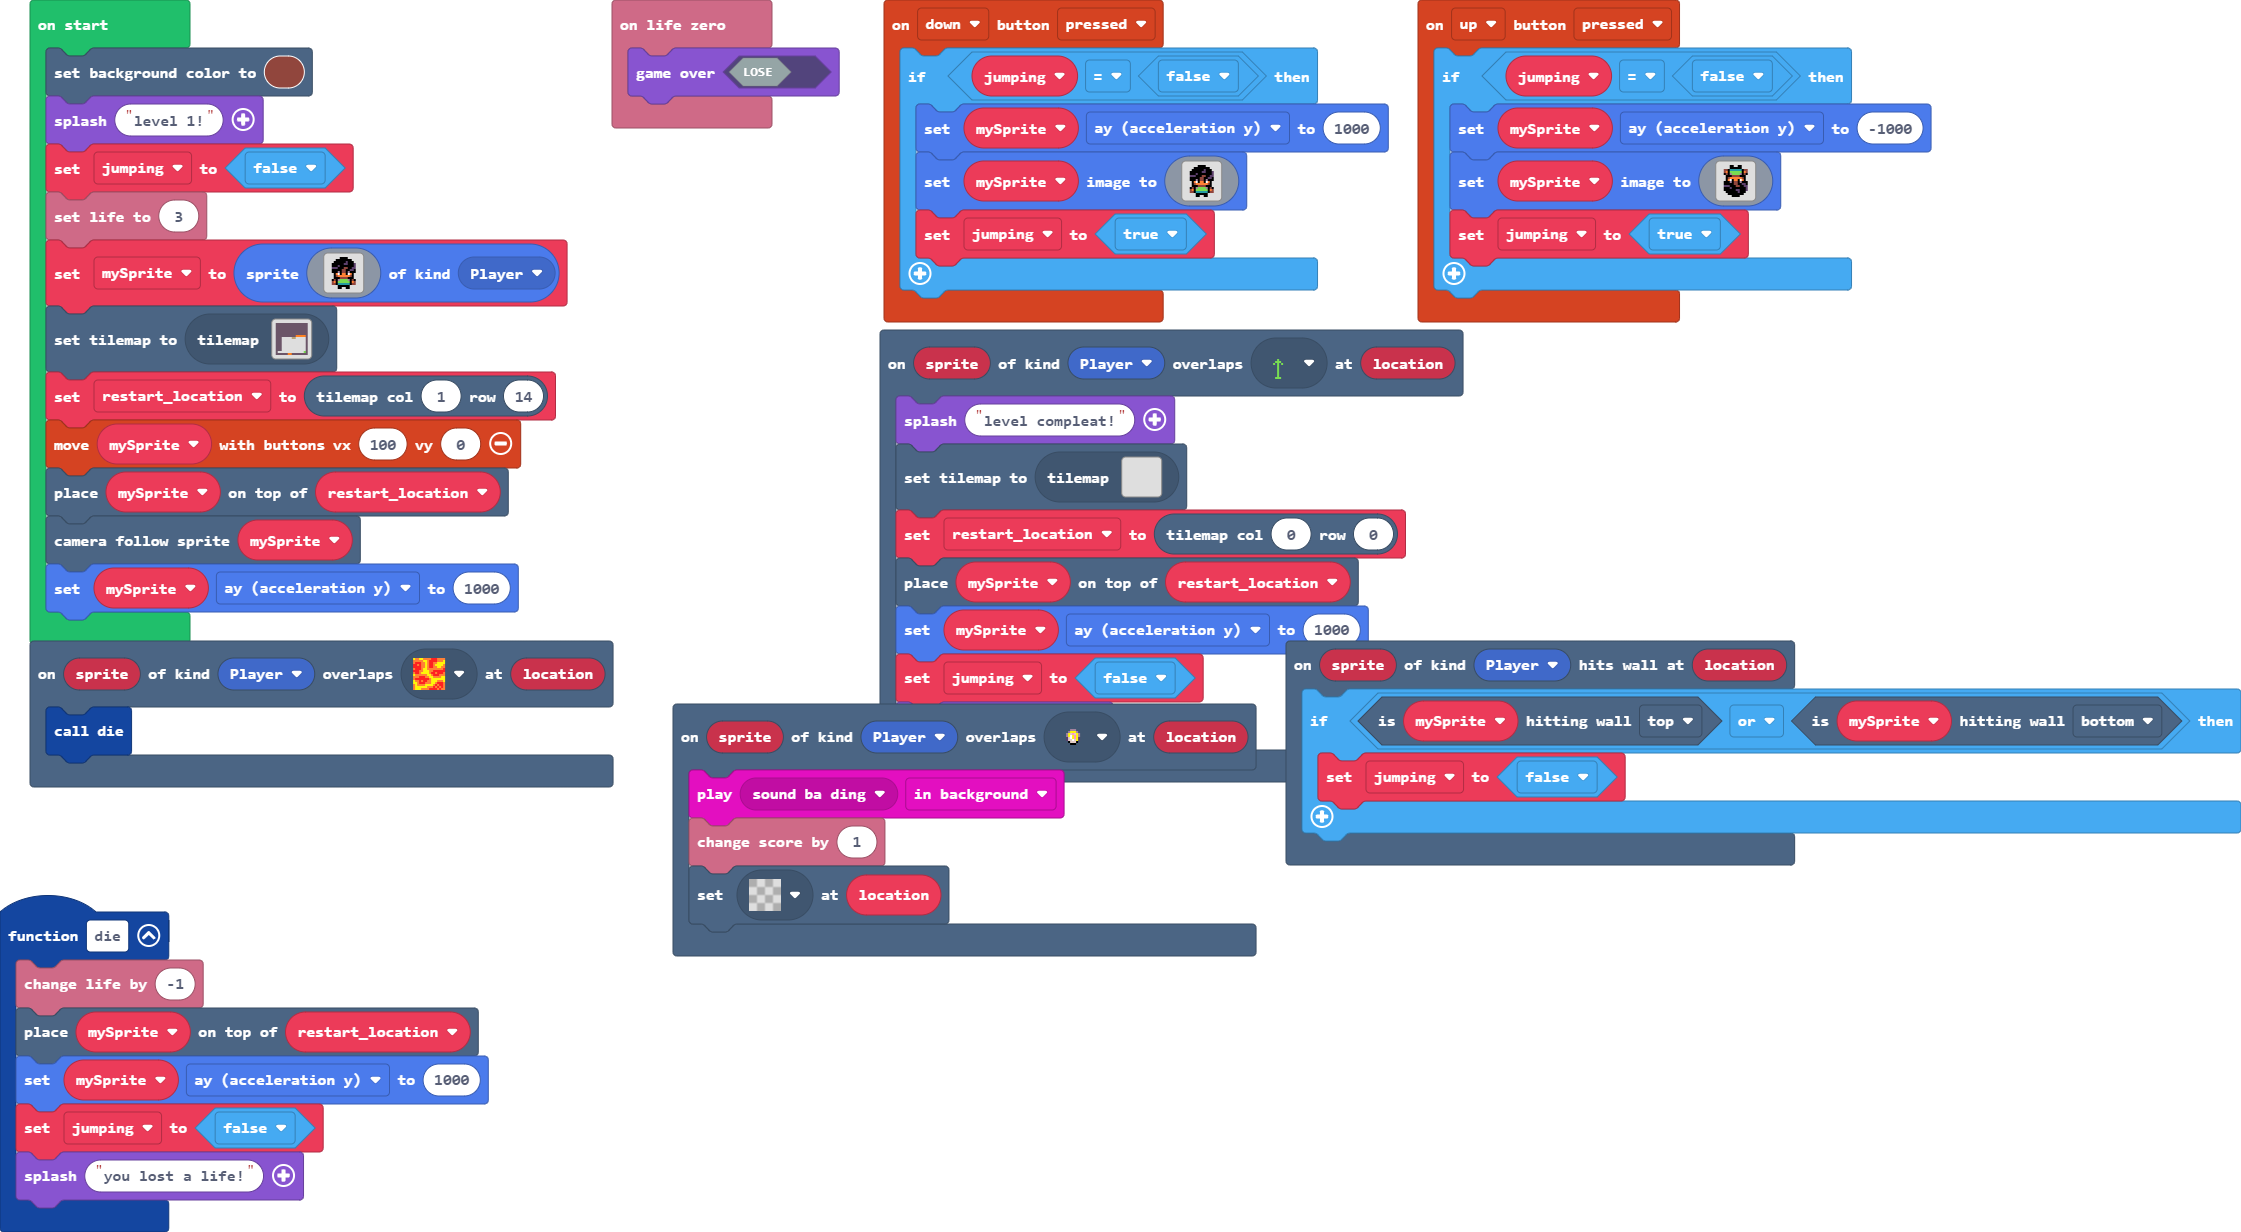
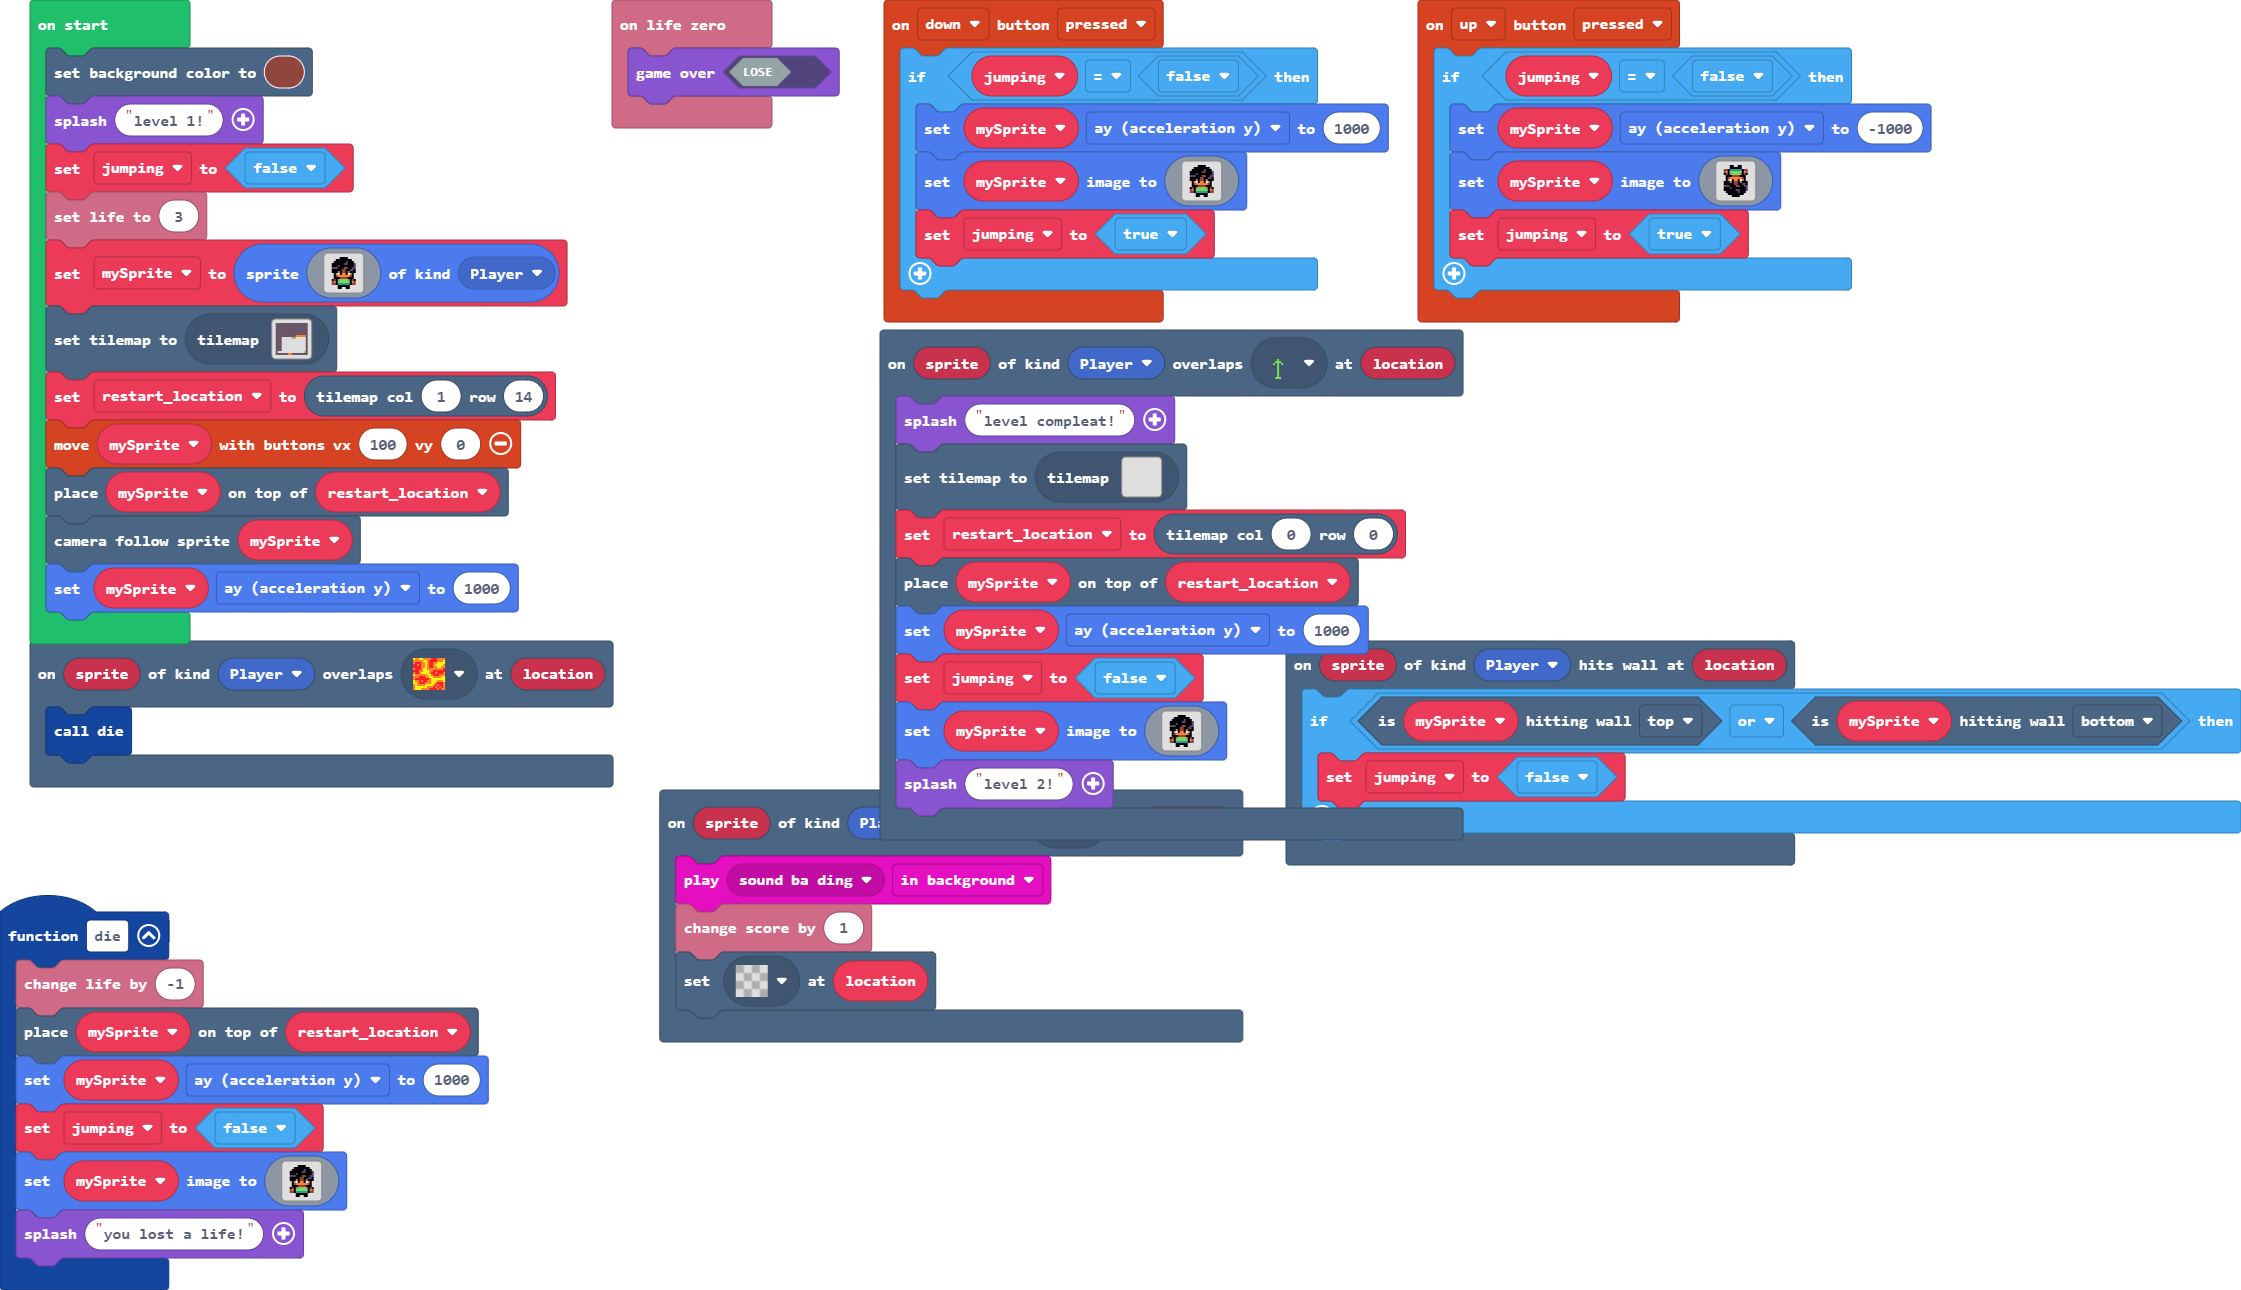
Update main.blocks, main.ts

Changed region(s): [[0.0, 0.0, 1.0, 0.8328], [0.0, 0.6786, 0.2187, 0.987], [0.2811, 0.0308, 0.3748, 0.1234]]

diff --git a/main.ts b/main.ts
@@ -8,6 +8,24 @@ scene.onOverlapTile(SpriteKind.Player, assets.tile`myTile1`, function (sprite, l
     tiles.placeOnTile(mySprite, restart_location)
     mySprite.ay = 1000
     jumping = false
+    mySprite.setImage(img`
+        . . . . f f f f . . . . 
+        . . f f f f f f f f . . 
+        . f f f f f f c f f f . 
+        f f f f f f c c f f f c 
+        f f f c f f f f f f f c 
+        c c c f f f e e f f c c 
+        f f f f f e e f f c c f 
+        f f f b f e e f b f f f 
+        . f 4 1 f 4 4 f 1 4 f . 
+        . f e 4 4 4 4 4 4 e f . 
+        . f f f e e e e f f f . 
+        f e f b 7 7 7 7 b f e f 
+        e 4 f 7 7 7 7 7 7 f 4 e 
+        e e f 6 6 6 6 6 6 f e e 
+        . . . f f f f f f . . . 
+        . . . f f . . f f . . . 
+        `)
     game.splash("level 2!")
 })
 controller.up.onEvent(ControllerButtonEvent.Pressed, function () {
@@ -44,6 +62,24 @@ function die () {
     tiles.placeOnTile(mySprite, restart_location)
     mySprite.ay = 1000
     jumping = false
+    mySprite.setImage(img`
+        . . . . f f f f . . . . 
+        . . f f f f f f f f . . 
+        . f f f f f f c f f f . 
+        f f f f f f c c f f f c 
+        f f f c f f f f f f f c 
+        c c c f f f e e f f c c 
+        f f f f f e e f f c c f 
+        f f f b f e e f b f f f 
+        . f 4 1 f 4 4 f 1 4 f . 
+        . f e 4 4 4 4 4 4 e f . 
+        . f f f e e e e f f f . 
+        f e f b 7 7 7 7 b f e f 
+        e 4 f 7 7 7 7 7 7 f 4 e 
+        e e f 6 6 6 6 6 6 f e e 
+        . . . f f f f f f . . . 
+        . . . f f . . f f . . . 
+        `)
     game.splash("you lost a life!")
 }
 controller.down.onEvent(ControllerButtonEvent.Pressed, function () {
